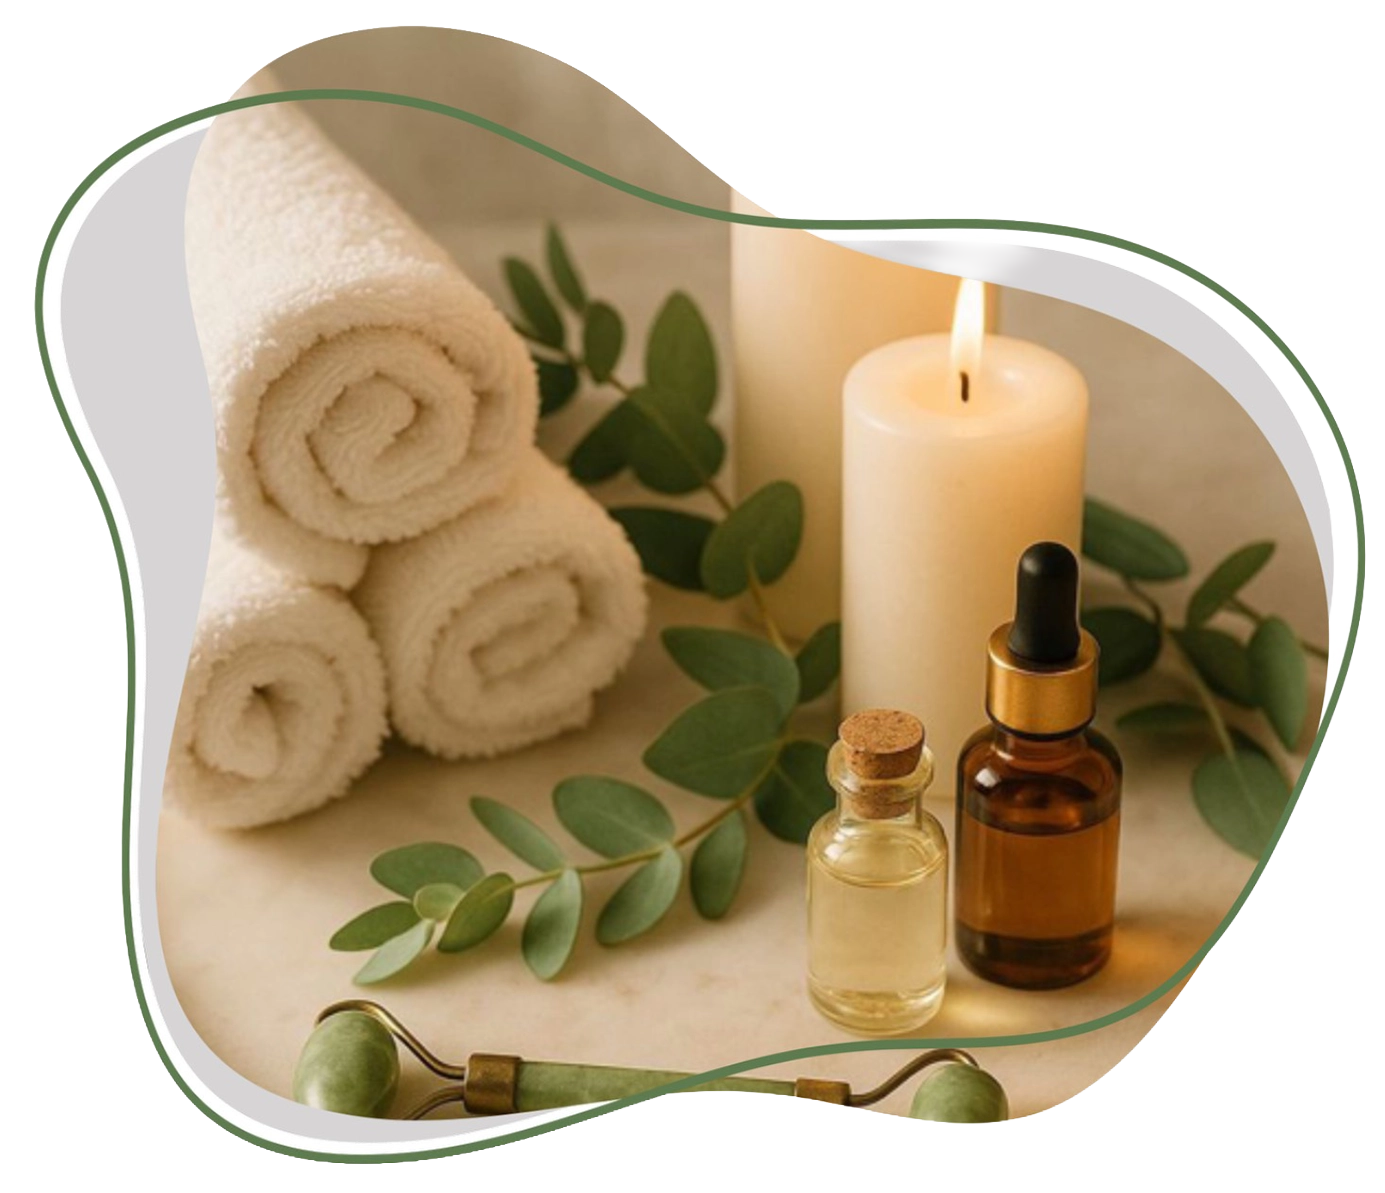
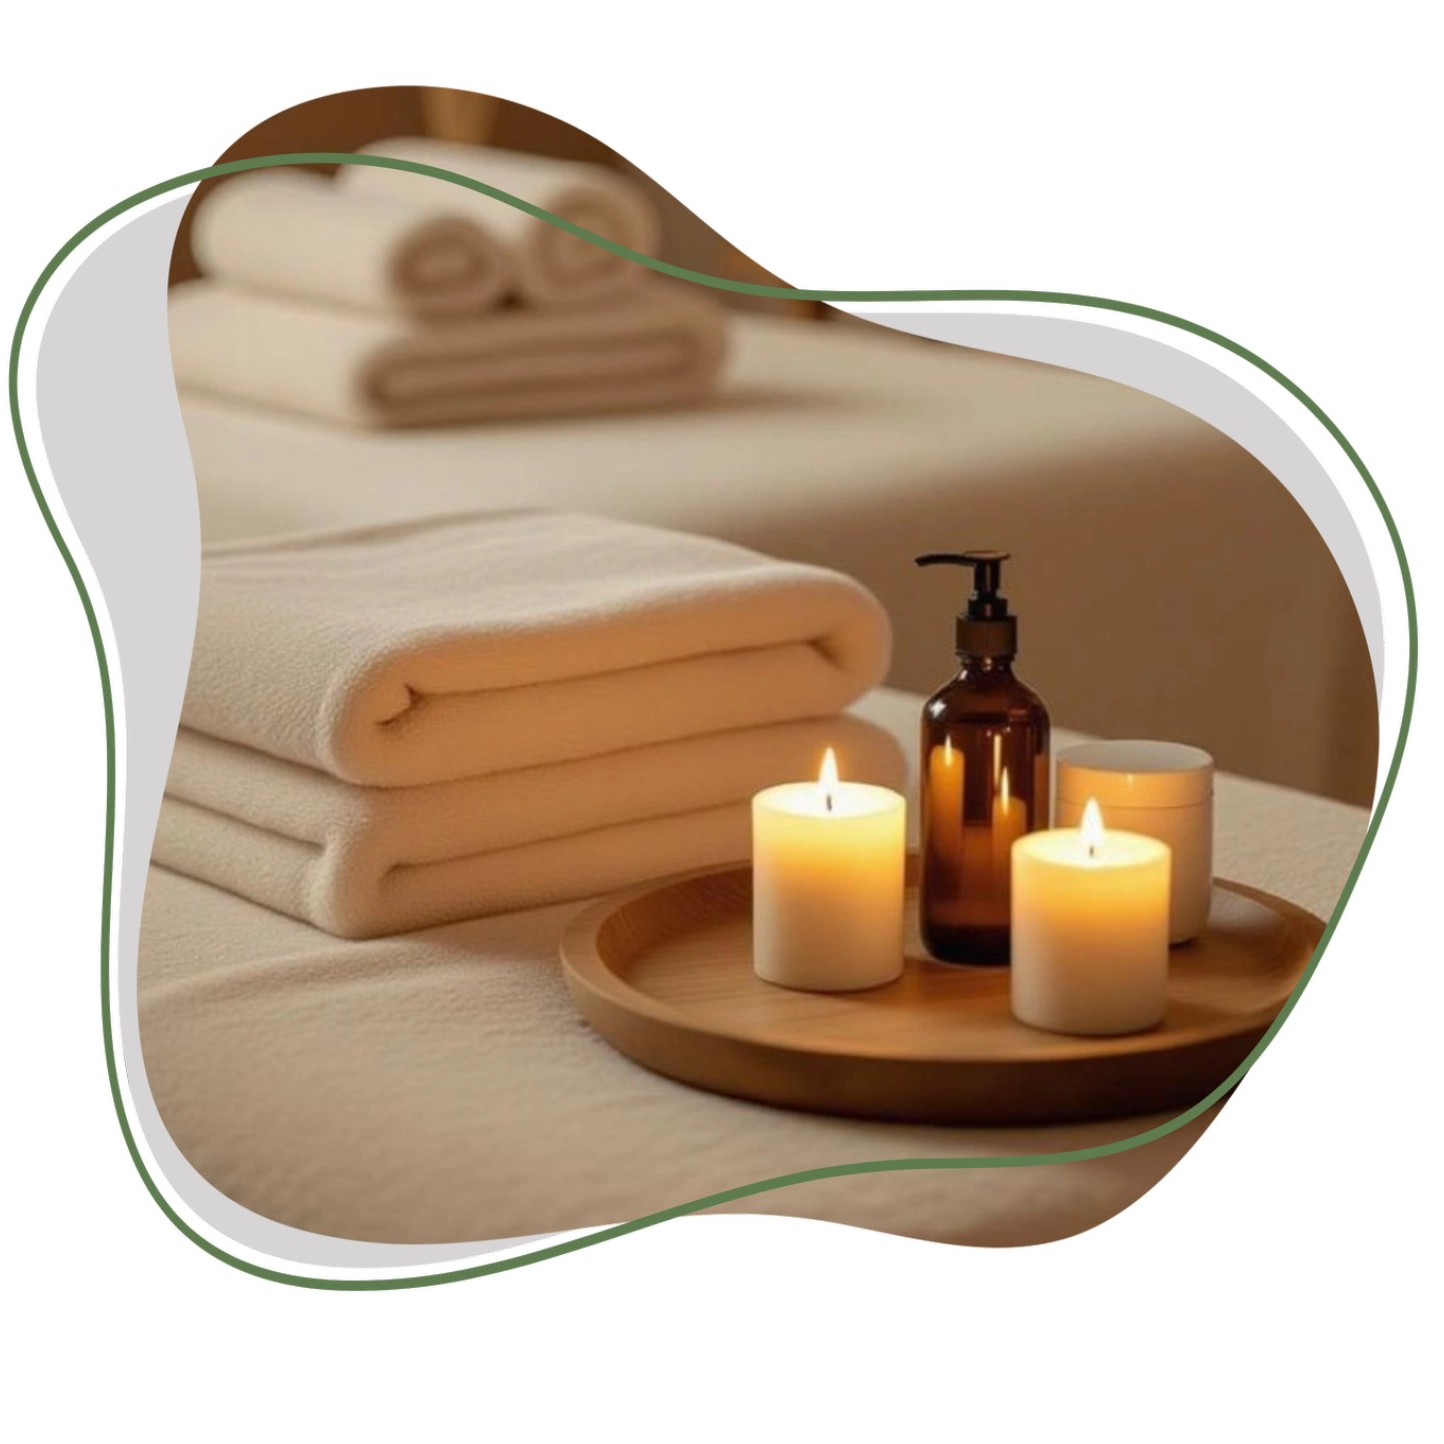
fix(Landing): change photoes[deploy]

diff --git a/src/components/landing/_components/AboutSection.tsx b/src/components/landing/_components/AboutSection.tsx
@@ -50,12 +50,12 @@ const AboutSection = () => {
                 className="rounded-2xl shadow-lg transform hover:scale-105 transition-transform duration-300"
               />
               <img
-                src="Landing/hero-spa.jpg"
+                src="Landing/images.jpg"
                 alt="داخلی spa"
                 className="rounded-2xl mt-20 shadow-lg transform hover:scale-105 transition-transform duration-300"
               />
               <img
-                src="Landing/images (1).jpg"
+                src="Landing/team-work.jpg"
                 alt="داخلی spa"
                 className="rounded-2xl mr-20 shadow-lg transform hover:scale-105 transition-transform duration-300"
               />

diff --git a/dev-dist/sw.js b/dev-dist/sw.js
@@ -79,7 +79,7 @@ define(['./workbox-5a5d9309'], (function (workbox) { 'use strict';
    */
   workbox.precacheAndRoute([{
     "url": "index.html",
-    "revision": "0.4o7rrbo7etg"
+    "revision": "0.6drmmb63mjo"
   }], {});
   workbox.cleanupOutdatedCaches();
   workbox.registerRoute(new workbox.NavigationRoute(workbox.createHandlerBoundToURL("index.html"), {

diff --git a/src/components/landing/_components/HeroSection.tsx b/src/components/landing/_components/HeroSection.tsx
@@ -72,7 +72,7 @@ const navigate = useNavigate();
             </div>
 
             <div className="relative hidden lg:block">
-              <div className="relative scale-150 ">
+              <div className="relative  ">
                 <img
                   src="/Landing/hero.webp"
                   alt="خدمات ماساژ درمانی"